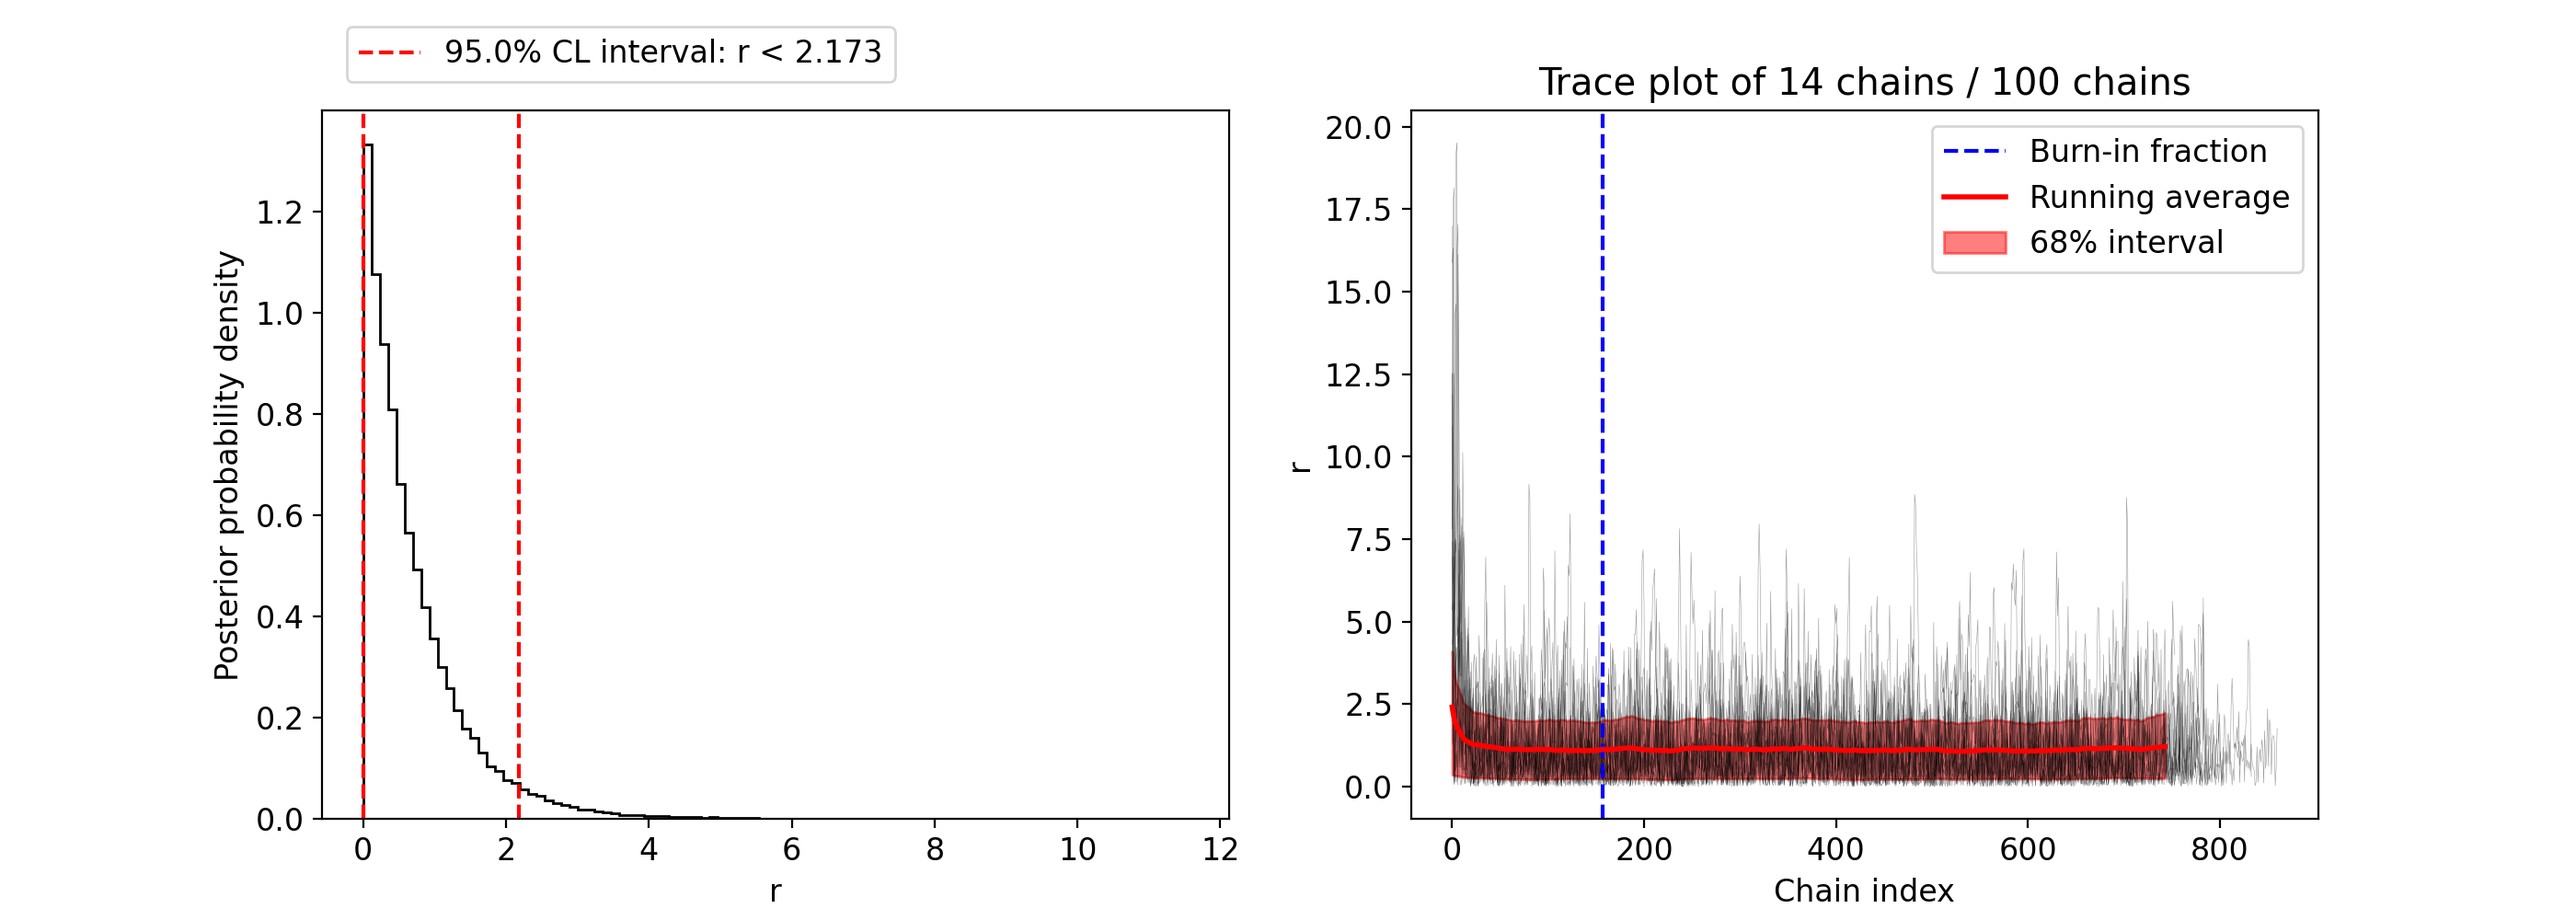
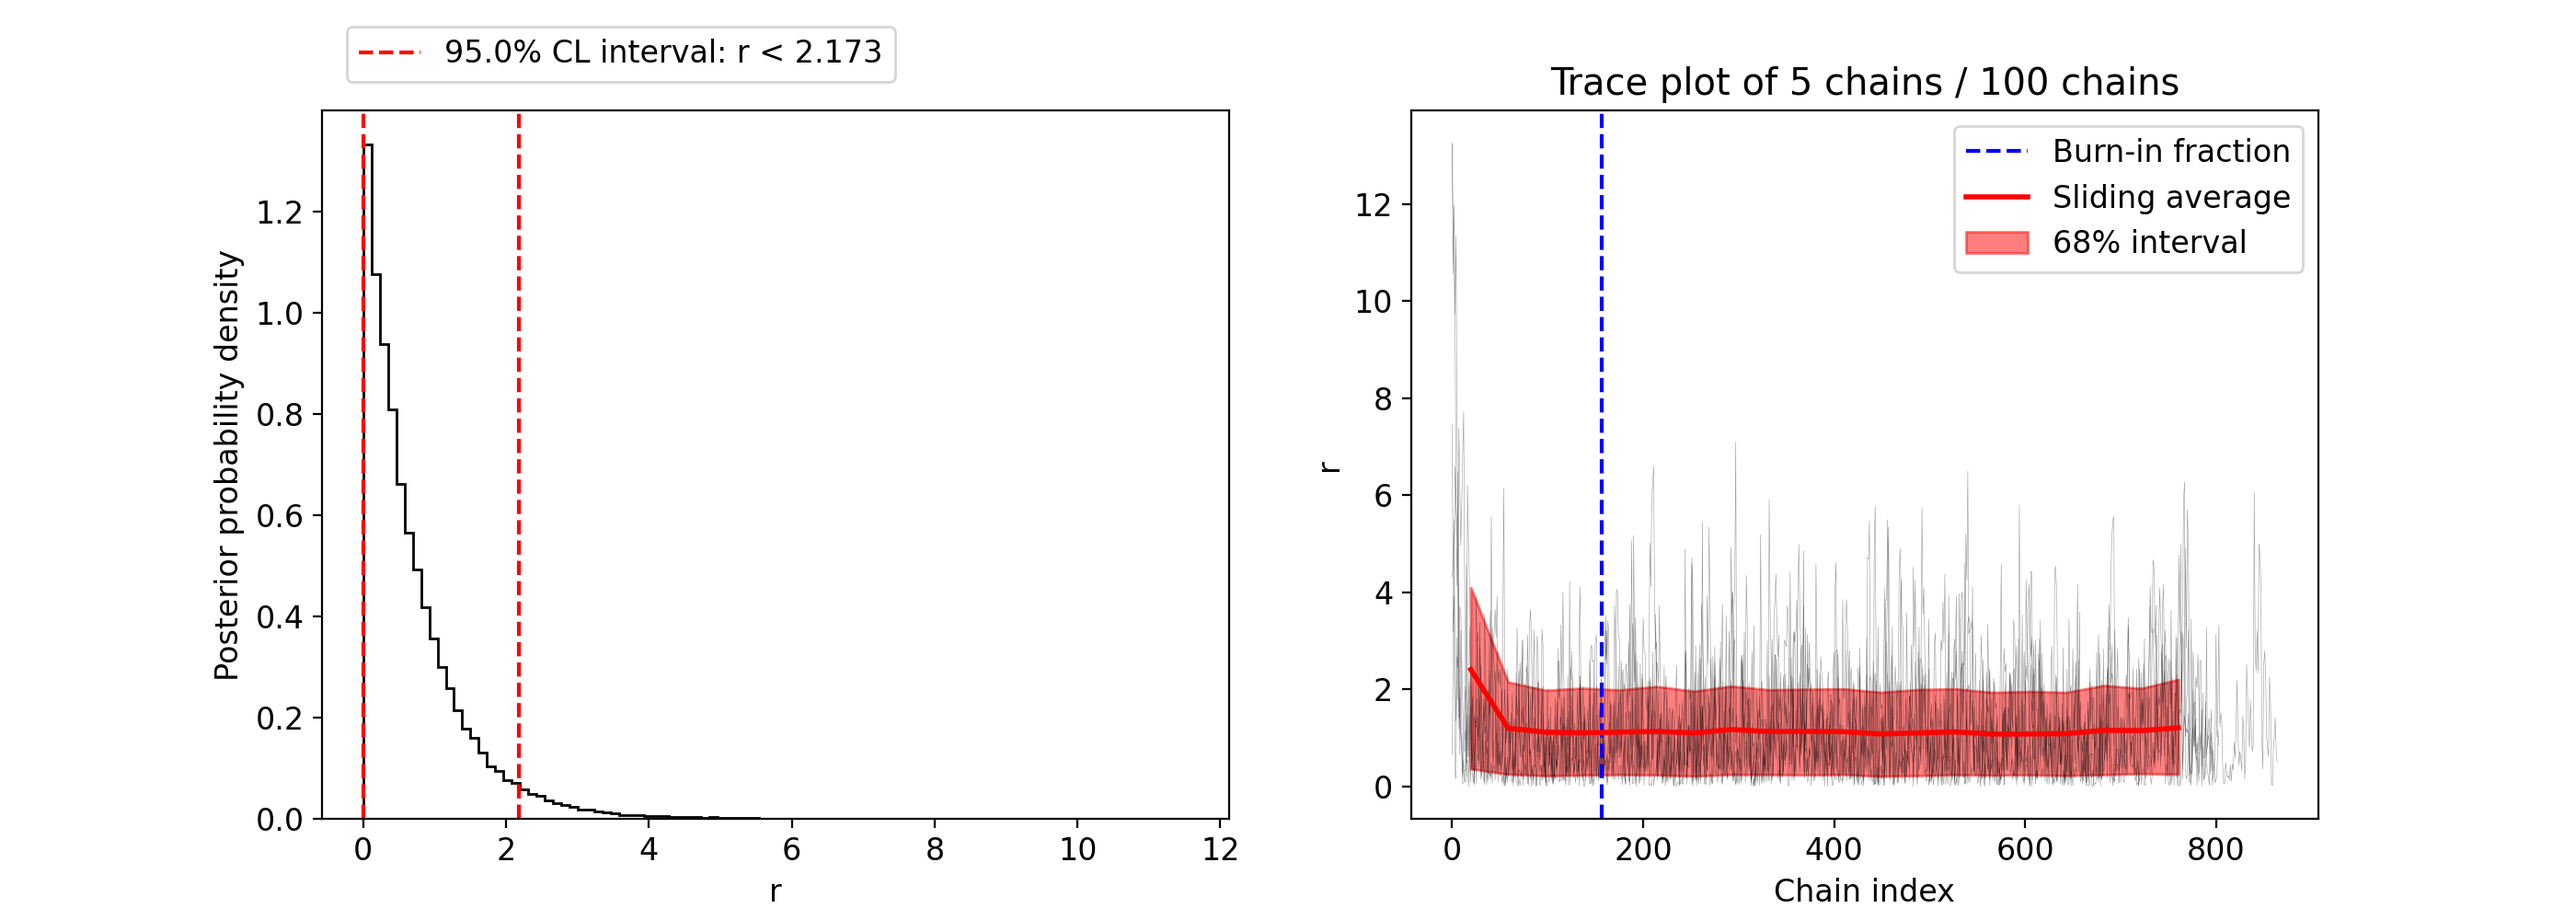
running ave -> sliding ave

diff --git a/scripts/debugChains.py b/scripts/debugChains.py
@@ -190,28 +190,33 @@ ax[1].axvline(args.burnInFraction*average_chain_length, color='blue', linestyle=
 ax[1].set_xlabel("Chain index")
 ax[1].set_title(f"Trace plot of {kept_chain} chains / {j+1} chains")
 
-# make a running average and 68% interval plot on top of the trace plot
+# make a sliding  average and 68% interval plot on top of the trace plot
 # this should be across the graphs and take ~5% of the average chain length as the window size
 window_size = int(average_chain_length*0.05)
-running_avg = np.empty(len(all_graphs[0])-window_size)
-running_avg_upper = np.empty(len(all_graphs[0])-window_size)
-running_avg_lower = np.empty(len(all_graphs[0])-window_size)   
+num_windows = int(average_chain_length/window_size)
+running_avg = np.empty(num_windows)
+running_avg_upper = np.empty(num_windows)
+running_avg_lower = np.empty(num_windows)   
+window_centers = np.empty(num_windows)
 
-for i in range(len(all_graphs[0])-window_size):
+for i in range(num_windows):
     window_vals = []
     window_weights = []
     for gr in all_graphs:
-        if i+window_size < len(gr):
-            window_vals.append(gr[i:i+window_size])
-            window_weights.append(np.ones(window_size)) # equal weights for the running average
+        if (i+1)*window_size > len(gr): continue
+        window_vals.append(gr[i*window_size:(i+1)*window_size])
+        window_weights.append(np.ones(window_size)) # equal weights for the running average
     window_vals = np.concatenate(window_vals)
     window_weights = np.concatenate(window_weights)
     running_avg[i] = np.average(window_vals, weights=window_weights)
     interval = findInterval(window_vals, window_weights,0.68,mode='interval')
     running_avg_lower[i] = interval[0]
     running_avg_upper[i] = interval[1]
-ax[1].plot(np.arange(len(running_avg)),running_avg, color='red', marker=None, linestyle='-',linewidth=2, label="Running average")
-ax[1].fill_between(np.arange(len(running_avg)), running_avg_lower, running_avg_upper, color='red', alpha=0.5, label="68% interval")
+    window_center = (i*window_size)+window_size/2
+    window_centers[i] = window_center
+
+ax[1].plot(window_centers,running_avg, color='red', marker=None, linestyle='-',linewidth=2, label="Sliding average")
+ax[1].fill_between(window_centers, running_avg_lower, running_avg_upper, color='red', alpha=0.5, label="68% interval")
 ax[1].legend(loc='upper right')
 
 if args.range:
